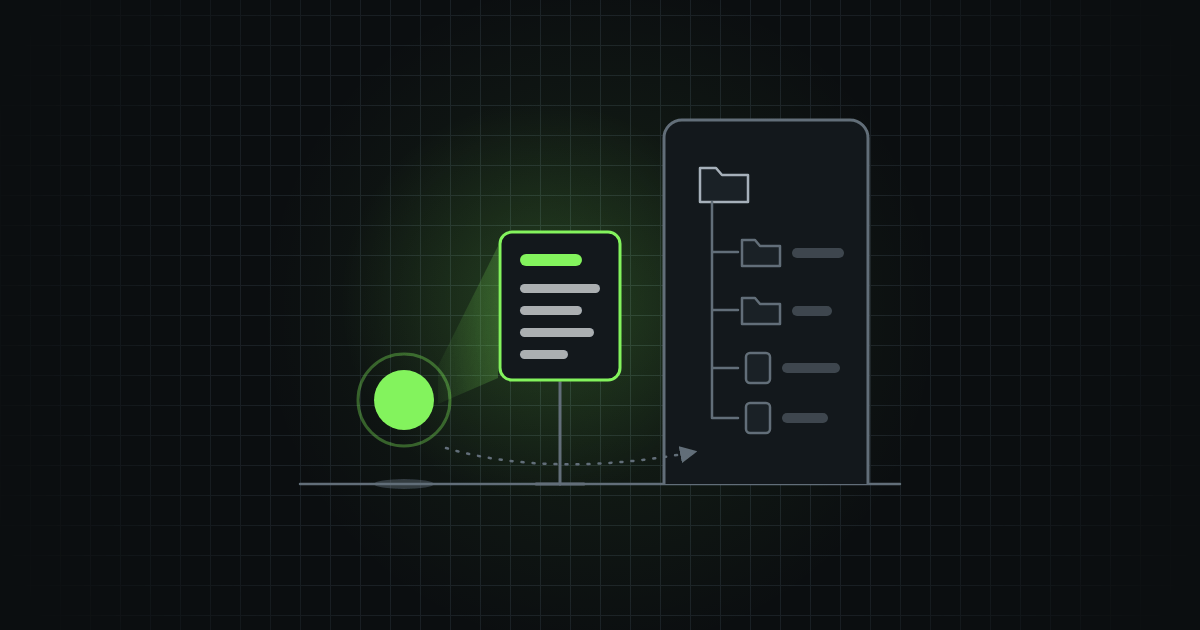
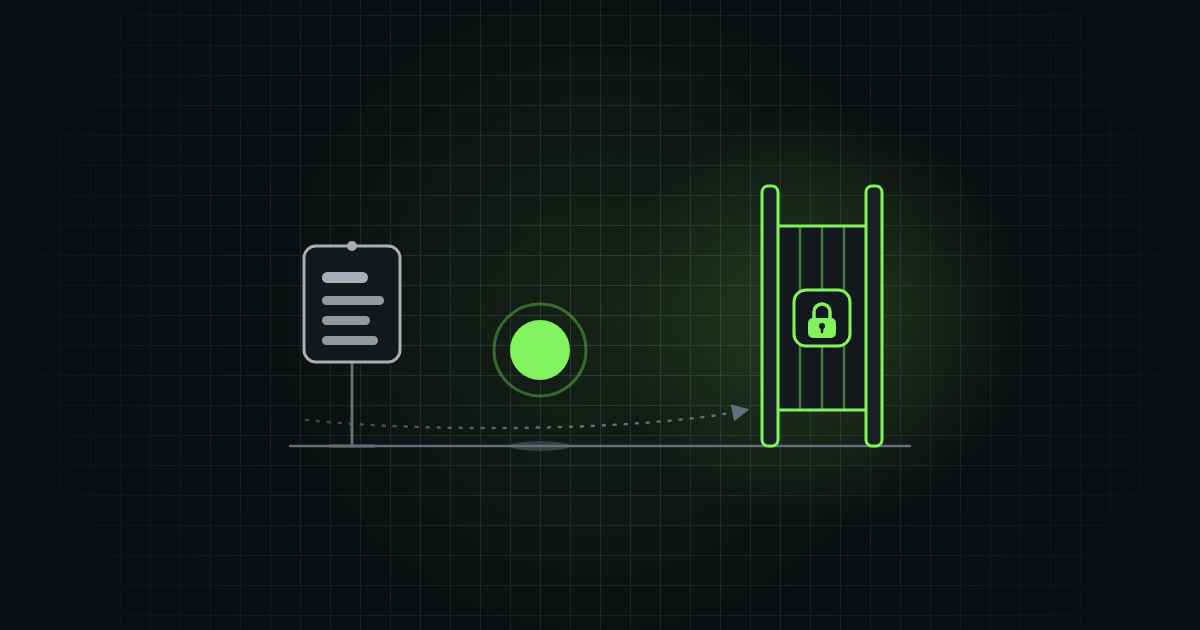
content(blog): part 7 of the series, "Set the limits in advance" / "Sätt gränserna i förväg", gets its own cover instead of part 2's copy: a request against a limit, drawn in the style of parts 1 to 6, the agent's green circle between a small grey note card on a post, which its dotted path passes, a

Changed region(s): [[0.2467, 0.181, 0.7708, 0.7841]]

diff --git a/src/sv/blog/posts/set-the-limits-in-advance.md b/src/sv/blog/posts/set-the-limits-in-advance.md
@@ -2,7 +2,7 @@
 title: Sätt gränserna i förväg
 description: Sjunde delen i serien "Från AI-chatt till agentiskt arbete" – skillnaden mellan att be en AI-agent uppföra sig och att stoppa den, de tre sorters gränser ett verktyg erbjuder, var varje verktyg börjar, vad du gör när en gräns släpper igenom något och vad du gör först.
 image: cover.png                 # en PNG på 1200 × 630 i artikelns mediemapp
-imageAlt: En AI-agent, en grön cirkel, står vid ingången till ett projekt och läser en kort lapp på en stolpe innan den går in. Bakom dörröppningen ligger projektets mappar och filer.
+imageAlt: En AI-agent, en grön cirkel, rör sig längs en prickad stig förbi en liten grå lapp på en stolpe. Lappen är en begäran och stoppar inte agenten. Till höger står en stängd grind i grön kontur, med ett hänglås, tvärs över stigen. Grinden är en gräns, och stigen tar slut vid den.
 date: 2026-10-30
 category: ai-journey             # app-development | ai-journey
 translationKey: set-the-limits-in-advance

diff --git a/src/en/blog/posts/set-the-limits-in-advance.md b/src/en/blog/posts/set-the-limits-in-advance.md
@@ -2,7 +2,7 @@
 title: Set the limits in advance
 description: The seventh part of the series "From AI chat to agentic work" — the difference between asking an AI agent to behave and stopping it, the three kinds of limit a tool offers, where each tool starts, what to do when a limit lets something through and what to do first.
 image: cover.png                 # a 1200 × 630 PNG in the article's media directory
-imageAlt: An AI agent, a green circle, stands at the entrance of a project and reads a short note card on a post before it steps in. Behind the doorway lie the project's folders and files.
+imageAlt: An AI agent, a green circle, moves along a dotted path past a small grey note card on a post. The note is a request, and it does not stop the agent. To its right a closed gate in green outline, with a padlock, stands across the path. The gate is a limit, and the path ends at it.
 date: 2026-10-30
 category: ai-journey             # app-development | ai-journey
 translationKey: set-the-limits-in-advance
